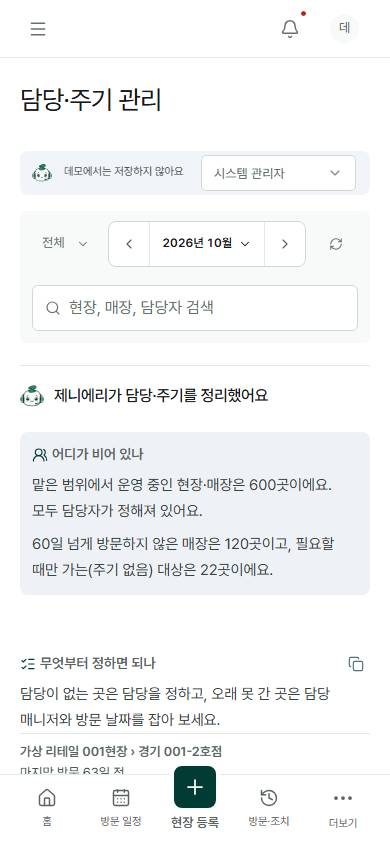
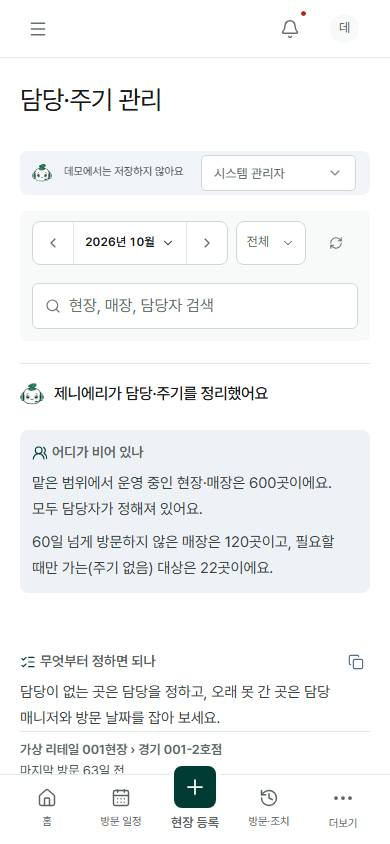
조회 필터 순서: 날짜(기간) 맨 앞 → 범위 → 초기화

diff --git a/app/platform/styles.css b/app/platform/styles.css
@@ -501,9 +501,9 @@
 /* 역할별 필터(지침 7절): 기본은 본인 범위로 이미 선택된 상태라 선택 상자를 접어 두고, 현재 범위 버튼을 누르거나 터치할 때만 펼친다 */
 @media(min-width:761px){.app-shell .platform-filters .scope-toggle{display:inline-flex;align-items:center;gap:8px;grid-column:1;grid-row:1;justify-self:start;align-self:center;width:auto;min-height:44px;padding:0 14px;border:1px solid var(--zf-control-border);border-radius:8px;background:var(--zf-surface);color:var(--zf-text);font-size:14px;font-weight:600}.app-shell .platform-filters:not(.filterbar-open) #workspace-filters{display:none}.app-shell .platform-filters.filterbar-open #workspace-filters{display:grid;grid-column:1/-1;grid-row:2;grid-template-columns:repeat(auto-fit,minmax(160px,1fr));gap:8px;padding:0;border:0;margin:0}}
 /* 운영 화면 조회 필터 배치(761px 이상)는 이 블록이 기준이다. 앞선 filterbar 규칙을 덮어쓰며, 다른 파일에 배치 규칙을 더 만들지 않는다.
-   태블릿·데스크톱: [범위 버튼][기간] ··· [초기화] 한 줄(기간은 범위 버튼 바로 뒤, 모든 화면 같음) / 펼친 선택 상자는 맨 아래 줄 */
+   태블릿·데스크톱: [기간][범위 버튼] ··· [초기화] 한 줄(날짜가 맨 앞, 모든 화면 같음) / 펼친 선택 상자는 맨 아래 줄 */
 @media(min-width:761px){
- .app-shell .platform-filters .filterbar-primary{display:grid;grid-template-columns:auto auto minmax(0,1fr) auto;grid-template-areas:"scope period . reset" "selects selects selects selects";align-items:center;gap:8px 12px;flex-wrap:nowrap}
+ .app-shell .platform-filters .filterbar-primary{display:grid;grid-template-columns:auto auto minmax(0,1fr) auto;grid-template-areas:"period scope . reset" "selects selects selects selects";align-items:center;gap:8px 12px;flex-wrap:nowrap}
  .app-shell .platform-filters .filterbar-label{display:none}
  .app-shell .platform-filters .scope-toggle{grid-area:scope}
  .app-shell .platform-filters .filterbar-period{grid-area:period;display:flex;align-items:center;gap:8px;flex-wrap:nowrap;margin:0;max-width:none;flex:none}
@@ -531,9 +531,9 @@
 .period-custom .btn{grid-column:1/-1;min-height:44px}
 .period-custom p{grid-column:1/-1;font-size:11px;color:var(--zf-text-secondary)}
 @media(max-width:760px){.period-picker .period-step{width:40px;min-height:44px}.period-picker .period-label{min-width:0;flex:1;min-height:44px}.app-shell .platform-filters .filterbar-period{flex:1 1 auto;min-width:0}.period-picker{width:100%}.period-panel{position:fixed;left:0;right:0;bottom:0;top:auto;width:auto;max-width:none;padding:16px 16px calc(16px + env(safe-area-inset-bottom));border-radius:12px 12px 0 0}}
-/* 운영 화면 조회 필터 배치(760px 이하): [범위 버튼][◀ 기간 ▶][초기화] 한 줄 / 펼친 선택 상자 */
+/* 운영 화면 조회 필터 배치(760px 이하): [◀ 기간 ▶][범위 버튼][초기화] 한 줄 / 펼친 선택 상자 */
 @media(max-width:760px){
- .app-shell .platform-filters .filterbar-primary{display:grid;grid-template-columns:auto minmax(0,1fr) 44px;grid-template-areas:"scope period reset" "selects selects selects";align-items:center;gap:8px}
+ .app-shell .platform-filters .filterbar-primary{display:grid;grid-template-columns:minmax(0,1fr) auto 44px;grid-template-areas:"period scope reset" "selects selects selects";align-items:center;gap:8px}
  .app-shell .platform-filters .scope-toggle{grid-area:scope;min-height:44px}
  .app-shell .platform-filters .filterbar-period{grid-area:period;display:flex;width:100%;margin:0}
  .app-shell .platform-filters .reset-button{grid-area:reset;width:44px;min-width:44px;min-height:44px}

diff --git a/PROJECT_RULE.md b/PROJECT_RULE.md
@@ -39,7 +39,7 @@
 | Guard | Condition → Action |
 |-------|-------------------|
 | DC-DESIGN | UI·디자인 변경 → `docs/DESIGN-zenielfield.md` 해당 절 확인 → 지침에 없거나 다르면 지침 먼저 갱신 → **같은 변경에서 `AGENTS.md` "현재 디자인 결정"과 아래 DC-DESIGN-* 행도 갱신(빠지면 미완료)** → 구현 → 390/820/1280px 실화면 검증 → `docs/` 기록. 대체·폐기된 기준은 `docs/design-history.md`로 옮기고 지침·룰에 남기지 않음 |
-| DC-DESIGN-SHELL | 날짜 = 위 조회 기간 하나(달력 안 날짜 이동·제목 금지, 길라잡이는 늘 이번 주, 일정 등록 날짜는 한 칸). 메뉴 = 모든 직급 같은 이름·같은 화면 구성(범위만 직급별): 운영 현황·방문 일정·방문 기록·후속 조치·활동 요약·담당·주기 관리·현장 주소록, 설정 = 프로필 메뉴 안에만(설정 아이콘 금지), 페이지 키 불변. 로고 `BrandIdentity` 188/180/158px. 현재 메뉴 딥그린 채움·점 금지. 데모 = 상단 띠 하나, 운영과 같은 구성. 반응형 ≤760/761–1023/≥1024/≥1440만. 조회 필터 = 범위 버튼 바로 뒤 기간 하나, 모든 화면 한 줄·높이 44px 통일 |
+| DC-DESIGN-SHELL | 날짜 = 위 조회 기간 하나(달력 안 날짜 이동·제목 금지, 길라잡이는 늘 이번 주, 일정 등록 날짜는 한 칸). 메뉴 = 모든 직급 같은 이름·같은 화면 구성(범위만 직급별): 운영 현황·방문 일정·방문 기록·후속 조치·활동 요약·담당·주기 관리·현장 주소록, 설정 = 프로필 메뉴 안에만(설정 아이콘 금지), 페이지 키 불변. 로고 `BrandIdentity` 188/180/158px. 현재 메뉴 딥그린 채움·점 금지. 데모 = 상단 띠 하나, 운영과 같은 구성. 반응형 ≤760/761–1023/≥1024/≥1440만. 조회 필터 = 기간 맨 앞 → 범위 버튼, 모든 화면 한 줄·높이 44px 통일 |
 | DC-DESIGN-REGISTER | 화면마다 등록 하나(`primary` entity·label·short): PC 머리 버튼, 모바일 하단 가운데 + 버튼 같은 동작·짧은 이름, 모바일 머리 등록 숨김. 하단 메뉴 홈·방문 일정·등록·방문·조치·더보기. 화면 변경 커밋은 `npm run screenshots`로 `docs/screenshots` 갱신. 갱신 2026-10-30 |
 | DC-DESIGN-VISUAL | 딥그린 `#003c33` 단일 강조, 상태색 완료/예정 `#516e8a`/지연 `#b42318`/미등록 `#8a4b00`, 빨강 = 기한 넘긴 사실만, 옅은 표면 2개만. Pretendard 하나, 글자 ≥11px·축 12px, keep-all. Lucide 14/16/20/24·선 1.75, 터치 44px. 이동용 ChevronRight는 단독 버튼이 아니라 링크 제목 바로 옆 14px 아이콘(한 초점/클릭 영역). 패널 흰색·상단 1px 선. 부제 설명·지표 꼬리·인쇄 버튼·표 제목 건수 금지. 문단은 칸(주제)마다 하나·문장별 줄 나누기 금지, 본문 15px·행간 1.7·`--zf-read-measure`(68ch) |
 | DC-DESIGN-ZENIERI | AI 표시 = `AiMark`(`zenieri-chatbot.png`, 24/20/44px) 하나, 정리·브리핑 머리·말풍선은 7초마다 통통(`zeni-hop`, 설정 → 내 계정 스위치 `zf-calm`·reduced-motion 정지). 정리 칸 제목은 화면별 상황 질문 + 대응 질문. 문장 = 제니에리 해요체 완결 문장·직함 호칭, 메모체·콜론 나열 금지(AI `briefPrompt`·규칙 `ruleBrief` 모두). 권한 안내는 거부 때만. 지침 9-B |

diff --git a/AGENTS.md b/AGENTS.md
@@ -50,7 +50,7 @@
 - 로고 `public/brand/zenifield_logo.png`(`BrandIdentity`) 로그인188/사이드바180/모바일158px. 사이드바 현재 메뉴 = 딥그린 채움+흰 글자, 점 표식 금지(빨간 점은 알림 종 전용).
 - 데모 = 상단 반투명 제니에리 띠 하나(역할 선택 포함), 화면 구성은 운영과 같음. 계정 동작은 오른쪽 위 아바타 메뉴 하나.
 - 날짜는 위 조회 기간 하나로만 바꾼다(달력 안 날짜 이동·제목 없음, 단위별·주간 달력은 그 주로 맞춤). 방문 길라잡이는 늘 이번 주. 일정 등록 날짜는 `방문 날짜` 한 칸(칩+입력).
-- 반응형 ≤760 / 761–1023 / ≥1024 / ≥1440만. 조회 필터 = [범위][◀ 기간 ▶] 붙여서 맨 앞 한 줄(모든 화면), 초기화만 끝, 세 칸 모두 높이 44px. 390·820·1280px 확인.
+- 반응형 ≤760 / 761–1023 / ≥1024 / ≥1440만. 조회 필터 = [◀ 기간 ▶][범위] 날짜가 맨 앞, 한 줄(모든 화면), 초기화만 끝, 세 칸 모두 높이 44px. 390·820·1280px 확인.
 - 등록 동작은 화면마다 하나: PC 머리 버튼 / 모바일 하단 가운데 + 버튼(같은 동작, 짧은 이름), 모바일 머리 등록 버튼 없음. 하단 메뉴 홈·방문 일정·등록·방문·조치·더보기. 화면을 바꾸면 `npm run screenshots`로 README 화면 다시 찍기.
 
 **색·글자·아이콘**
@@ -108,7 +108,7 @@
 
 **기타**
 - 활동 요약 = 기간 브리핑 + 날짜 축 타임라인. 상세 화면 `--zf-detail-*` 토큰(지침 9.1).
-- 조회 필터 = 범위 버튼 바로 뒤 `[◀ 기간 ▶]`, 모든 화면 한 줄(기간을 오른쪽 끝으로 떼어 놓지 않음). 검색 자동완성 8개(초성).
+- 조회 필터 = `[◀ 기간 ▶]` 맨 앞, 그 뒤 범위 버튼, 모든 화면 한 줄. 검색 자동완성 8개(초성).
 - 푸터 `v버전 · 커밋 · 시각`, 새 버전 알림 띠, 로그인 단계형 로딩(제니에리 말풍선), 메뉴 전환 `useTransition`+3px 막대.
 - 속도: Map 색인·`useMemo`, 루프 안 전체 재필터 금지.
 - 설정 = 탭(내 계정 · 사용자·권한 · 관리 도메인 · 브리핑 내용), 프로필 메뉴는 새로고침·설정·로그아웃만. 내 계정 = 프로필·본인 비밀번호·제니에리 움직임 스위치. 사용자·권한 = 명단 양식·명단 올리기(미리 보기 후 n건 반영)·사용자 등록 + 찾기·역할·상태 + 표(수정 버튼). 지침 끝 2026-10-30 설정 절.
